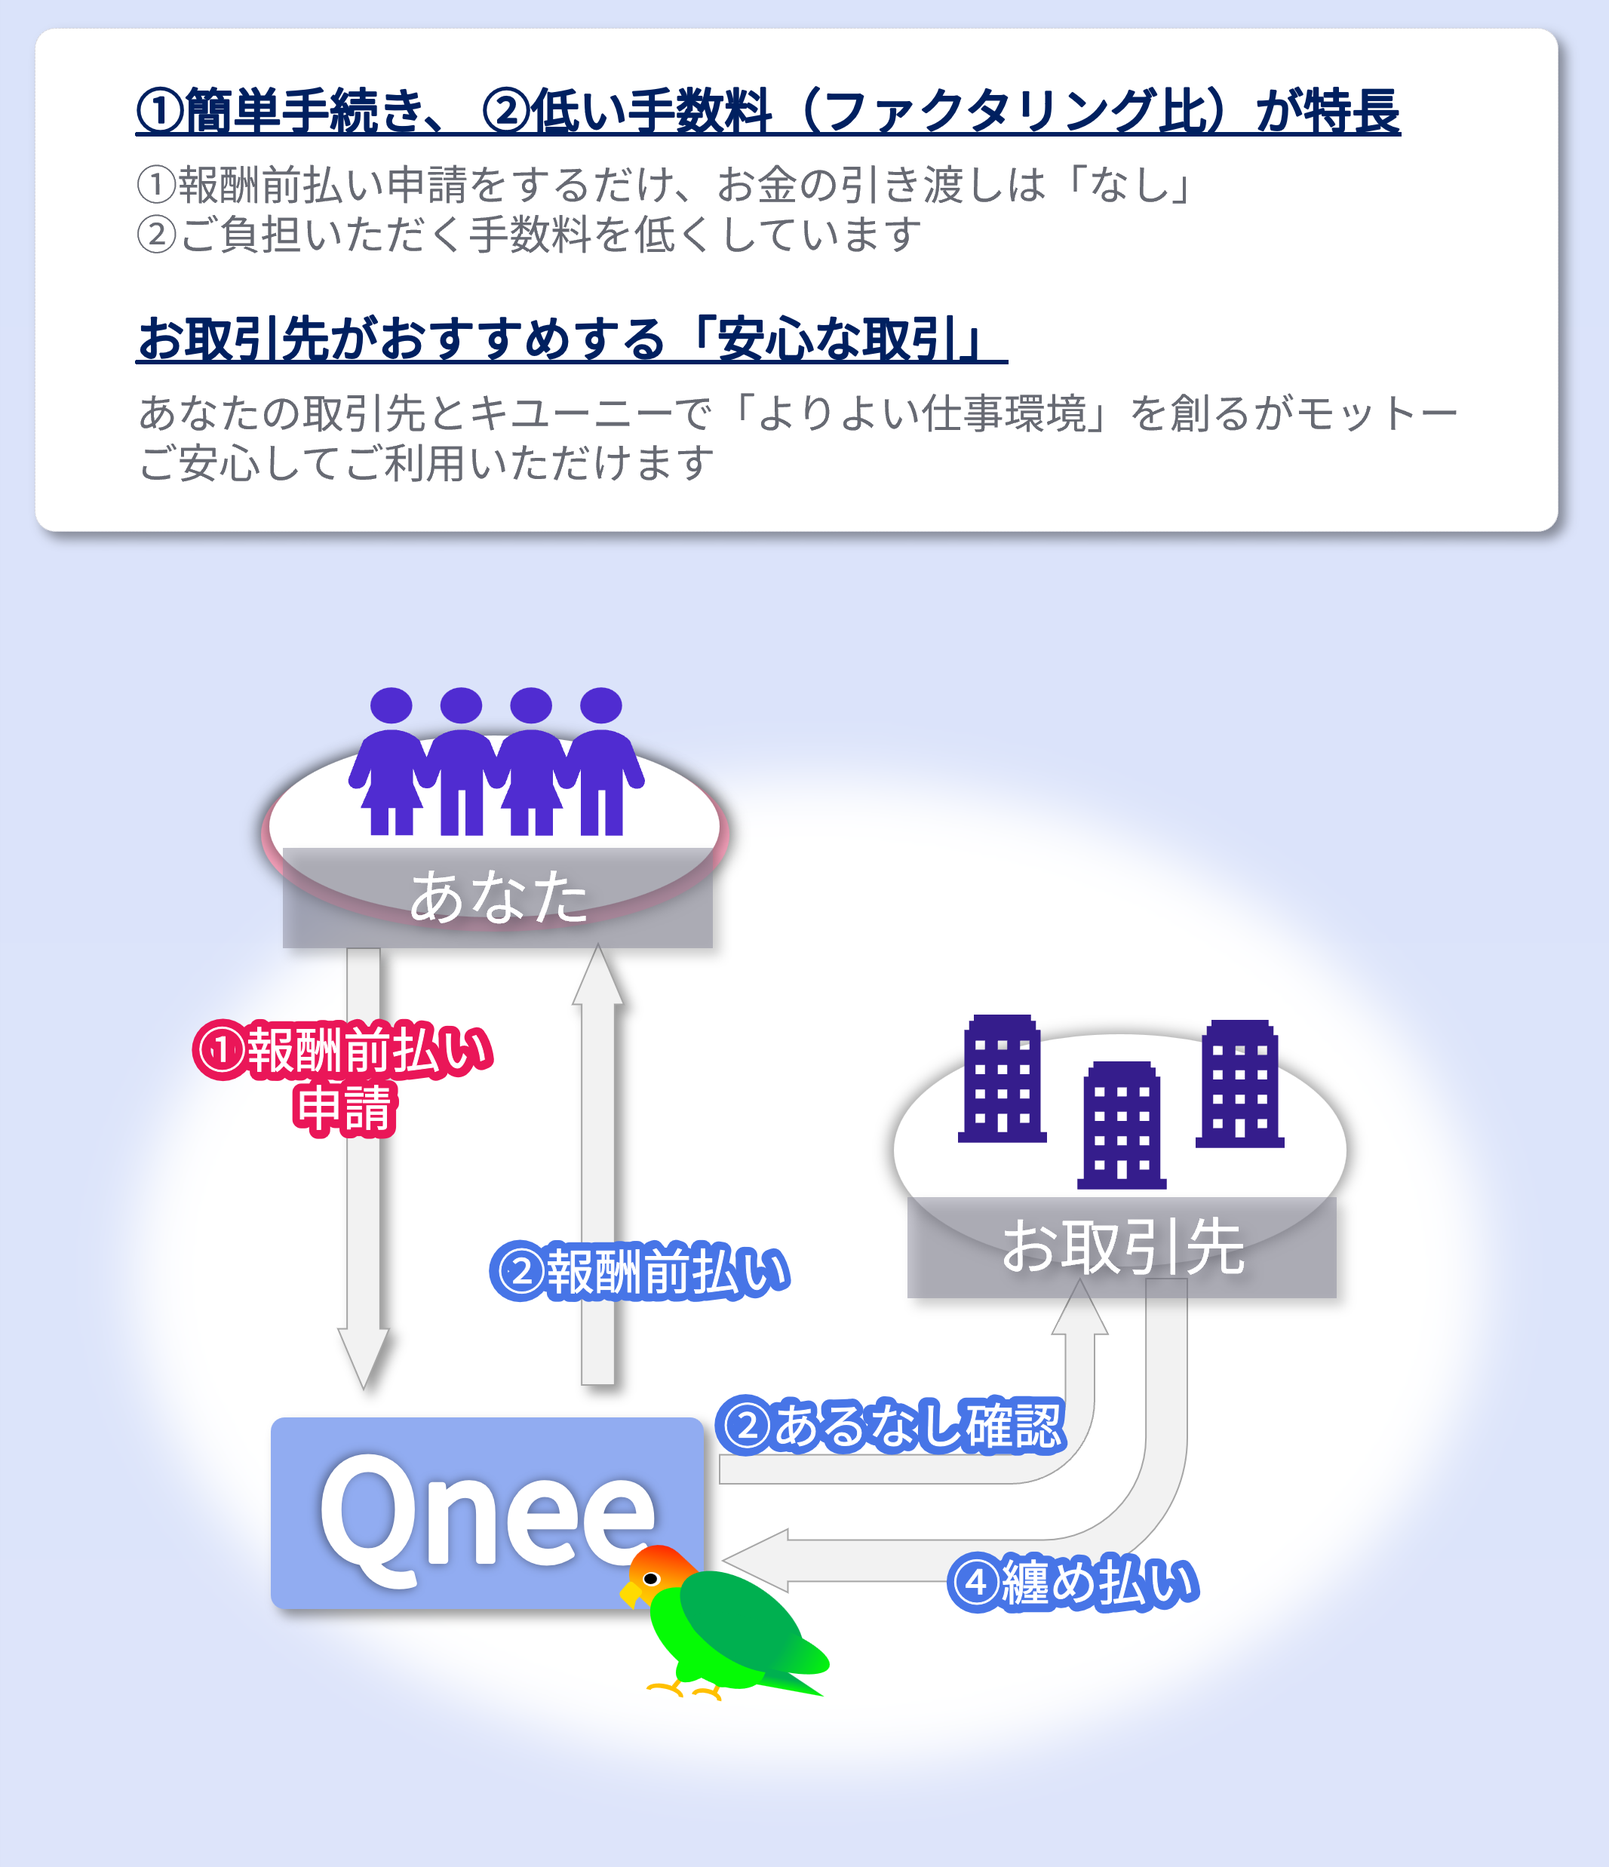
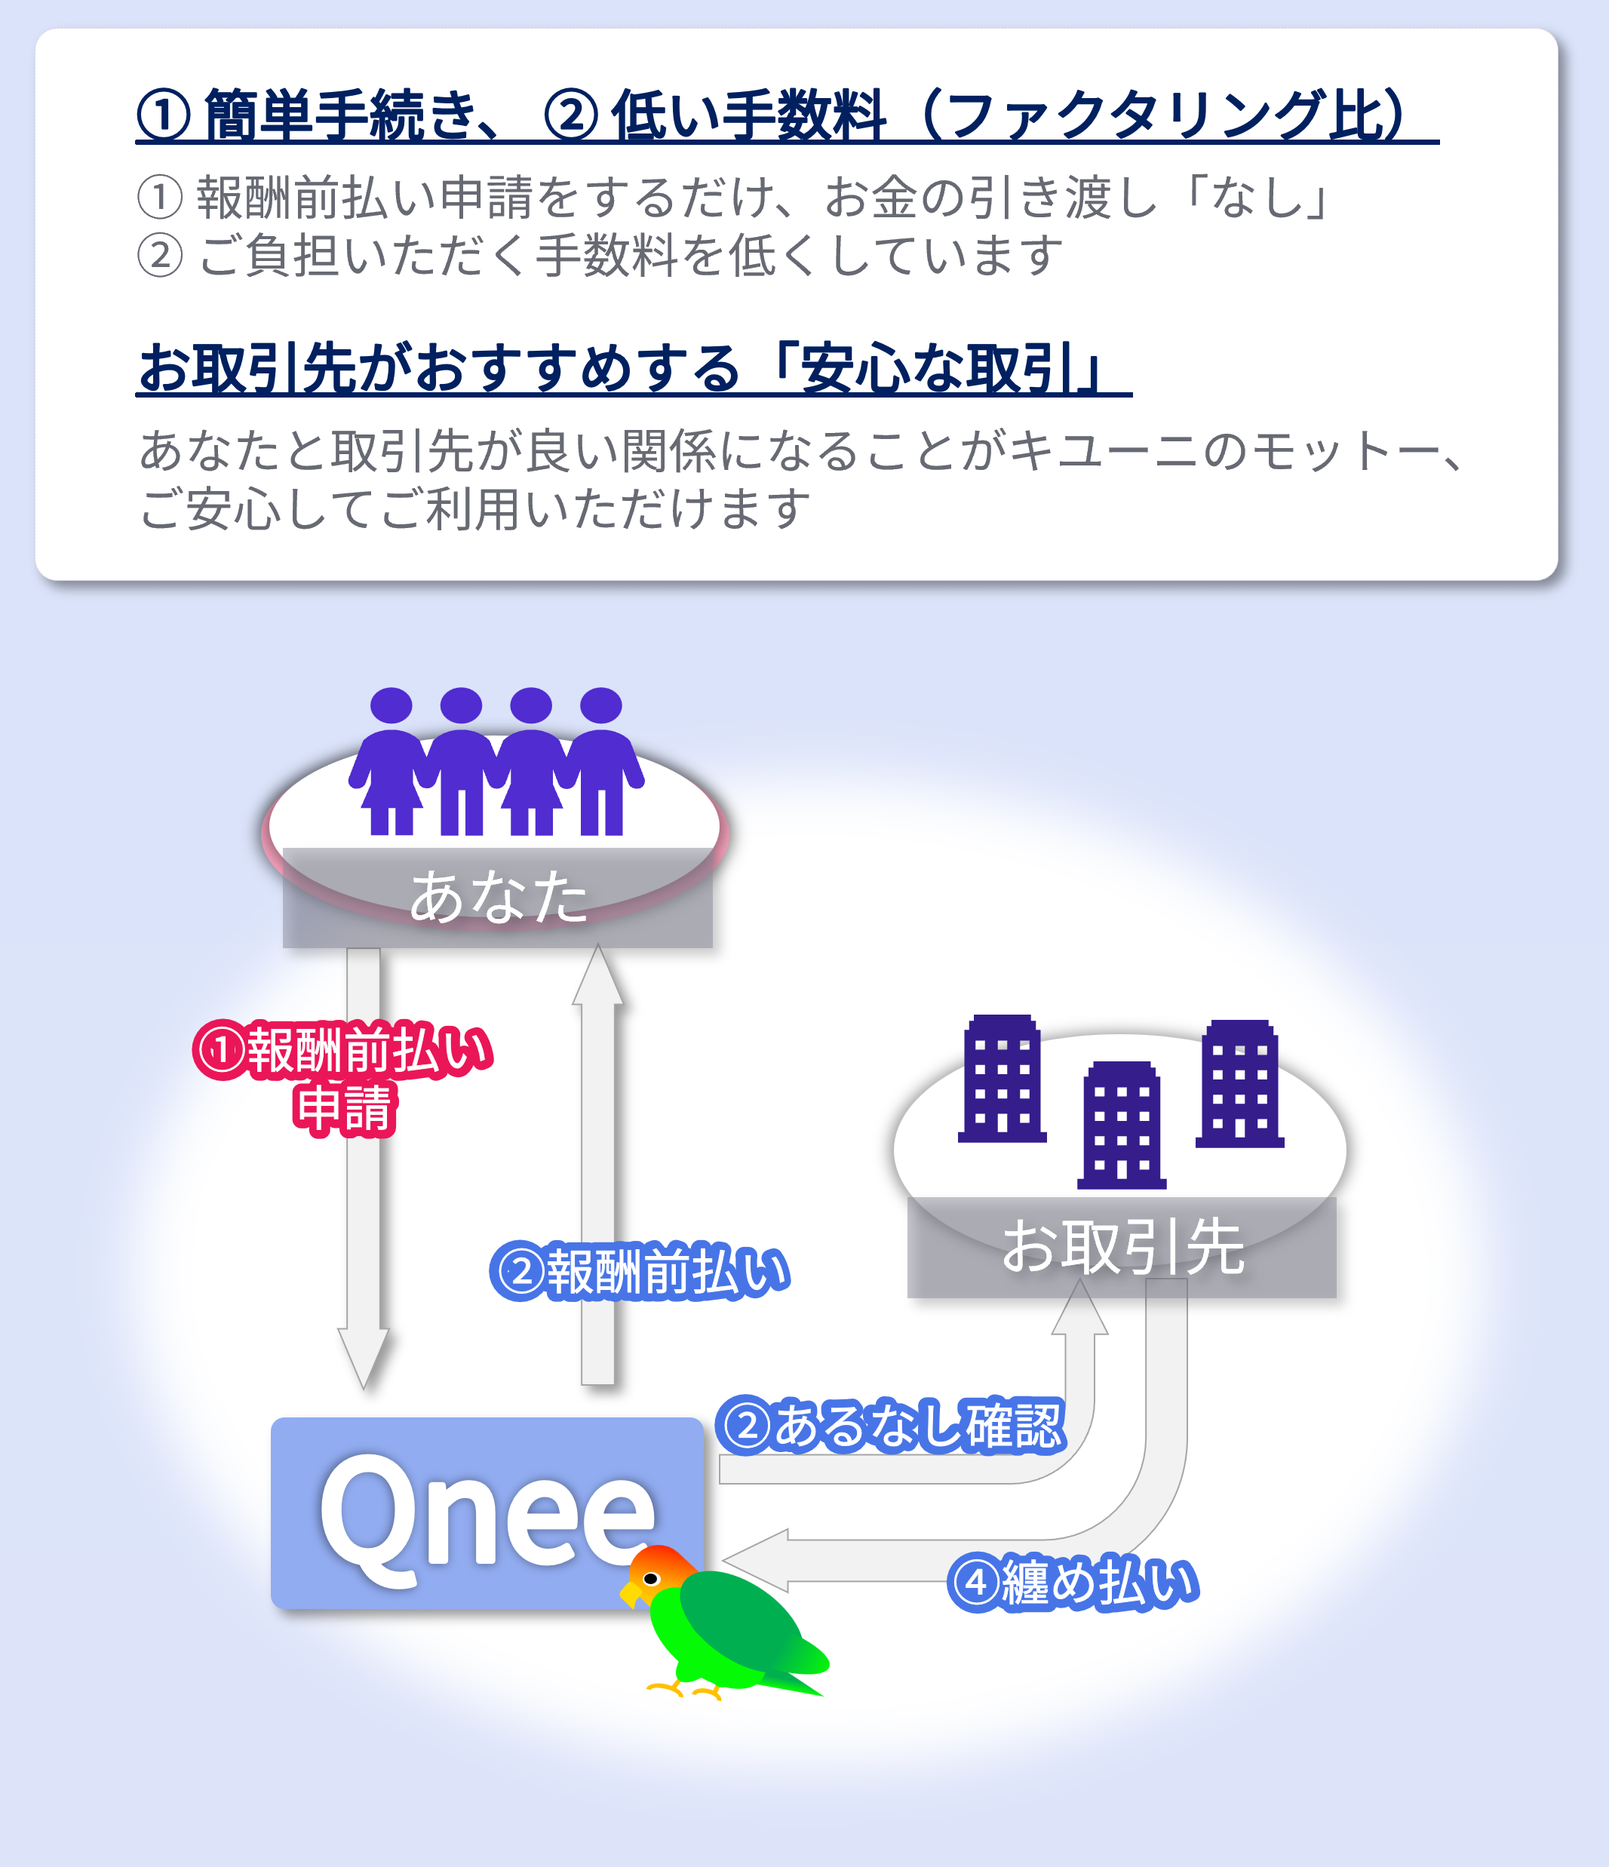
20260926 16:20 「他と何が違うの？」の説明を更新

Changed region(s): [[0.0, 0.0311, 0.9902, 0.3422]]

diff --git a/web/qneeproject/qneeproject/templates/buyer/index/index_qconnect.html b/web/qneeproject/qneeproject/templates/buyer/index/index_qconnect.html
@@ -55,11 +55,11 @@
               <p class="mt-4"
                 style="color:#fff; font-size:1.0rem;"
                 id="page1_copy_body1">
-                報酬を早くもらいたい？ <br>
-                委託先からそんな相談ありませんか<br>
-                <br>        
-                カードや銀行の審査が厳しかったり、<br>
-                他の手段は手数料負担が大きかったり。
+                報酬を早くもらいたい？ <br><br>
+                委託先からそんな相談ありませんか<br><br>
+
+                カードや銀行の審査が厳しかったり、<br><br>
+                他の手段は手数料負担が大きかったり。<br><br>
               </p>
             </div>
           </div>
@@ -81,11 +81,10 @@
               <p class="mt-3"
                 style="color:#fff; font-size:1.0rem;"
                 id="page1_copy_body1">
-                報酬をもう少し早くもらいたい！ <br>
-                委託先からそんな相談あったことはないでしょうか。<br>
-                <br>
-                定期収入がないとカードや銀行の審査が厳しい、<br>
-                他の手段は手数料負担が大きかったりします。<br>
+                報酬をもう少し早くもらいたい！ <br><br>
+                委託先からそんな相談あったことはないでしょうか。<br><br>
+                定期収入がないとカードや銀行の審査が厳しい、<br><br>
+                他の手段は手数料負担が大きかったりします。<br><br>
               </p>
             </div>
           </div>
@@ -107,9 +106,9 @@
               <p class="mt-4"
                 style="color: #fff; font-size:1.0rem"
                 id="page1_copy_body2" >
-                フリーランスの環境を支援し、<br>
-                よりよい関係を築きませんか？<br>
-                キユーニーが報酬を前払いいたします
+                フリーランスの環境を支援し、<br><br>
+                よりよい関係を築きませんか？<br><br>
+                キユーニーが報酬を前払いいたします<br><br>
               </p>
 
             </div>
@@ -131,9 +130,8 @@
               <p class="mt-3"
                 id="page1_copy_body2" 
                 style="font-size:1.0rem;">
-                フリーランスの働く環境を支援することで、<br>
-                よりよい関係を築いていきませんか？<br>
-                <br>
+                フリーランスなどの委託先の働く環境を支援することで、<br><br>
+                取引先とよりよい関係を築いていきませんか？<br><br><br>
                 キユーニーがサポートいたします。
               </p>
             </div>
@@ -220,8 +218,8 @@
               <p class="mt-4"
                 id="page2_copy_body1"
                 style="font-size:1rem">
-                キユーニーのパートナーとなって、<br>
-                フリーランスをご紹介いただけませんか？<br>
+                キユーニーのパートナーとなって、<br><br>
+                フリーランスをご紹介いただけませんか？<br><br>
               </p>
 
               <p class=""
@@ -239,9 +237,9 @@
               <p class=""
                 id="page2_copy_body2">
                 <br>
-                フリーランスはすぐに報酬を手にし、<br>
-                あなたの会社は、①フリーランスとの良い関係と<br>
-                ②キユーニーからのご確認の謝礼金<br>
+                フリーランスはすぐに報酬を手にし、<br><br>
+                あなたの会社は、①フリーランスとの良い関係と<br><br>
+                ②キユーニーからのご確認の謝礼金<br><br>
               </p>
             </div>
 
@@ -264,8 +262,8 @@
               <p class="mt-4"
                 id="page2_copy_body1"
                 style="font-size:1.0rem">
-                キユーニーのパートナーとなって、<br>
-                フリーランスをご紹介いただけませんか？<br>
+                キユーニーのパートナーとなって、<br><br>
+                フリーランスをご紹介いただけませんか？<br><br>
               </p> 
             </div>
 
@@ -285,9 +283,9 @@
               <p class="" style="font-size:1.0rem"
                 id="page2_copy_body2">
                 <br>
-                フリーランスはすぐに報酬を手にし、<br>
-                あなたの会社は、 ①フリーランスとの良い関係と<br>
-                ②キユーニーからのご確認の謝礼金を手にします<br>
+                フリーランスはすぐに報酬を手にし、<br><br>
+                あなたの会社は、 ①フリーランスとの良い関係と<br><br>
+                ②キユーニーからのご確認の謝礼金を手にします
               </p>
             </div>
 
@@ -367,15 +365,16 @@
                 謝礼金と基本料金
               </p>
               <p class="mt-4" id="page3_copy_body1">
-                ベータ（β）版運用期間は基本料ゼロ<br>
+                皆さまのご利用を「サービス向上の機会」、<br><br>
+                「サービスの普及」の機会として考えています。<br><br> 
               </p>
               <p class="" id="page3_copy_body2">
-                フリーランスの申請内容のご確認に、<br>
-                キユーニーが謝礼をお支払いします。<br>
+                委託先からの申請内容をご確認には、<br><br>
+                キユーニーが感謝として謝礼をお支払い。<br><br>
               </p>
-              <p class="" id="page3_copy_body3">
-                優待特典として、β版運用期間は、<br>
-                ①ご確認の謝礼金2倍、②基本料金ゼロ<br>
+              <p class="" id="page3_copy_body3" style="text-decoration: underline;">
+                優待特典として、β版運用期間は、<br><br>
+                ①ご確認の謝礼金2倍、②基本料金ゼロ<br><br>
               </p>
             </div>
 
@@ -433,19 +432,18 @@
                   padding:0.5em 1.5em;">
                 謝礼金と基本料金
               </p>
-              <p class="copy-body-m mt-4" style="font-size:1.0rem"
-                id="page3_copy_body1">
-                ベータ（β）版運用期間は基本料ゼロ<br>
+              <p class="mt-4" id="page3_copy_body1">
+                皆さまのご利用を「サービス向上の機会」、<br><br>
+                「サービスの普及」の機会として考えています。<br><br> 
               </p>
-              <p class="" style="font-size:1.0rem"
-                id="page3_copy_body2">
-                フリーランスの申請内容のご確認に、<br>
-                キユーニーが謝礼をお支払いします。<br>
+              <p class="" id="page3_copy_body2">
+                委託先からの申請内容をご確認には、<br><br>
+                キユーニーが感謝として謝礼をお支払い。<br><br>
               </p>
-              <p class="" style="font-size:1.0rem"
-                id="page3_copy_body3">
-                優待特典として、β版運用期間は、<br>
-                ①ご確認の謝礼金2倍、②基本料金ゼロ<br>
+
+              <p class="" id="page3_copy_body3" style="text-decoration: underline;">
+                優待特典として、β版運用期間は、<br><br>
+                ①ご確認の謝礼金2倍、②基本料金ゼロ<br><br>
               </p>
             </div>
 

diff --git a/web/qneeproject/qneeproject/templates/seller/index/index_qconnect.html b/web/qneeproject/qneeproject/templates/seller/index/index_qconnect.html
@@ -53,10 +53,10 @@
               <p class="mt-4"
                 style="color:#fff; font-size:1.0rem;"
                 id="page1_copy_body1">
-                報酬がもっと早くほしい！ <br>
-                そんなときはありませんか？<br>
-                <br>
-                カードや銀行の審査が厳しい、<br>
+                報酬がもっと早くほしい！ <br><br>
+                そんなときはありませんか？<br><br>
+
+                カードや銀行の審査が厳しい、<br><br>
                 ファクタリングは手数料が高かったりします。
               </p>
             </div>
@@ -80,10 +80,10 @@
               <p class="mt-3"
                 style="color:#fff; font-size:1.0rem;"
                 id="page1_copy_body1">
-                報酬がもっと早くほしい！ そんなときはありませんか？<br>
+                報酬がもっと早くほしい！ そんなときはありませんか？<br><br>
                 <br>
-                カードや銀行の審査が厳しい、<br>
-                ファクタリングは手数料が高かったりします。
+                カードや銀行の審査が厳しい、<br><br>
+                ファクタリングは手数料が高かったりします。<br><br>
               </p>
             </div>
           </div>
@@ -105,8 +105,8 @@
               <p class="mt-4"
                 style="color: #fff; font-size:1.0rem"
                 id="page1_copy_body2" >
-                いえいえ、そんなことはありません。<br>
-                あなたを支援して、よい関係でありたいと思います。
+                いえいえ、そんなことはありません。<br><br>
+                あなたを支援して、よい関係でありたいと思います。<br><br>
             </div>
           </div>
 
@@ -126,8 +126,8 @@
               <p class="mt-3"
                 id="page1_copy_body2" 
                 style="font-size:1.0rem;">
-                いえいえ、そんなことはありません。<br>
-                あなたを支援して、よい関係でありたいと思います。
+                いえいえ、そんなことはありません。<br><br>
+                あなたを支援して、よい関係でありたいと思います。<br><br>
               </p>
             </div>
           </div>
@@ -210,8 +210,8 @@
               <p class="mt-4"
                 id="page2_copy_body1"
                 style="font-size:1rem">
-                取引先をご紹介いただけませんか？<br>
-                取引先もあなたの働く環境をサポートしたいはず。
+                取引先をご紹介いただけませんか？<br><br>
+                取引先もあなたの働く環境をサポートしたいはず。<br><br>
               </p>
             </div>
 
@@ -231,8 +231,9 @@
 
               <p class="mt-4"
                 id="page2_copy_body2">
-                ゲスト登録し、報酬があること示すだけ。<br>
-                あなたはすぐに報酬を手にすることができます。
+                あなたの取引がキユーニーのパートナーであれば、<br><br>
+                ゲスト登録し、報酬があること示すだけ。<br><br>
+                すぐに報酬を手にすることができます。<br><br>
               </p>
             </div>
 
@@ -254,8 +255,8 @@
               <p class="mt-4"
                 id="page2_copy_body1"
                 style="font-size:1.0rem">
-                取引先をご紹介いただけませんか？<br>
-                取引先はあなたの働く環境をサポートしたいはず。
+                取引先をご紹介いただけませんか？<br><br>
+                取引先はあなたの働く環境をサポートしたいはず。<br><br>
               </p> 
             </div>
 
@@ -274,8 +275,9 @@
 
               <p class="mt-4" style="font-size:1.0rem"
                 id="page2_copy_body2">
-                ゲスト登録し、報酬があること示すだけ。<br>
-                すぐに報酬を手にすることができます。
+                あなたの取引がキユーニーのパートナーであれば、<br><br>
+                ゲスト登録し、報酬があること示すだけ。<br><br>
+                すぐに報酬を手にすることができます。<br><br>
               </p>
             </div>
 
@@ -351,16 +353,17 @@
                   padding:0.5em 1.5em;">
                 ご利用手数料
               </p>
+
               <p class="mt-4" id="page3_copy_body1">
-                次のご利用手数料を設定しています。<br>
-                初回は優待特典として手数料はゼロ
               </p>
               <p class="" id="page3_copy_body2">
-                私たちは皆さまのご利用を「サービス向上の機会」、<br>
-                「サービスの普及」の機会として考えています。
+                皆さまのご利用を「サービス向上の機会」、<br><br>
+                「サービスの普及」の機会として考えています。<br><br> 
               </p>
-              <p class="" id="page3_copy_body3">
-                そんななか初回とβ版運用期間はご優待価格としています。
+              <p class="" id="page3_copy_body3" style="text-decoration: underline;">
+                そこでQneeとして優待特典として、<br><br>
+                ① 初回は手数料ゼロ、②β版運用期間は割引価格<br><br>
+                とさせていただいています。<br><br>
               </p>
             </div>
 
@@ -420,19 +423,16 @@
                   padding:0.5em 1.5em;">
                 ご利用手数料
               </p>
-              <p class="copy-body-m mt-4" style="font-size:1.0rem"
-                id="page3_copy_body1">
-                次のご利用手数料を設定しています。<br>
-                初回は優待特典として手数料はゼロ
+              <p class="mt-4" id="page3_copy_body1">
               </p>
-              <p class="" style="font-size:1.0rem"
-                id="page3_copy_body2">
-                私たちは皆さまのご利用を①サービス向上の機会、<br>
-                ②サービスの普及の機会として考えています。
+              <p class="" id="page3_copy_body2">
+                皆さまのご利用を「サービス向上の機会」、<br><br>
+                「サービスの普及」の機会として考えています。<br><br> 
               </p>
-              <p class="" style="font-size:1.0rem"
-                id="page3_copy_body3">
-                そんななか初回とβ版運用期間はご優待価格としています。
+              <p class="" id="page3_copy_body3" style="text-decoration: underline;">
+                そこでQneeとして優待特典として、<br><br>
+                ① 初回は手数料ゼロ、②β版運用期間は割引価格<br><br>
+                とさせていただいています。<br><br>
               </p>
             </div>
 
@@ -678,4 +678,3 @@ document.addEventListener('DOMContentLoaded', function() {
 </script>
 
 {% endblock %}
-
